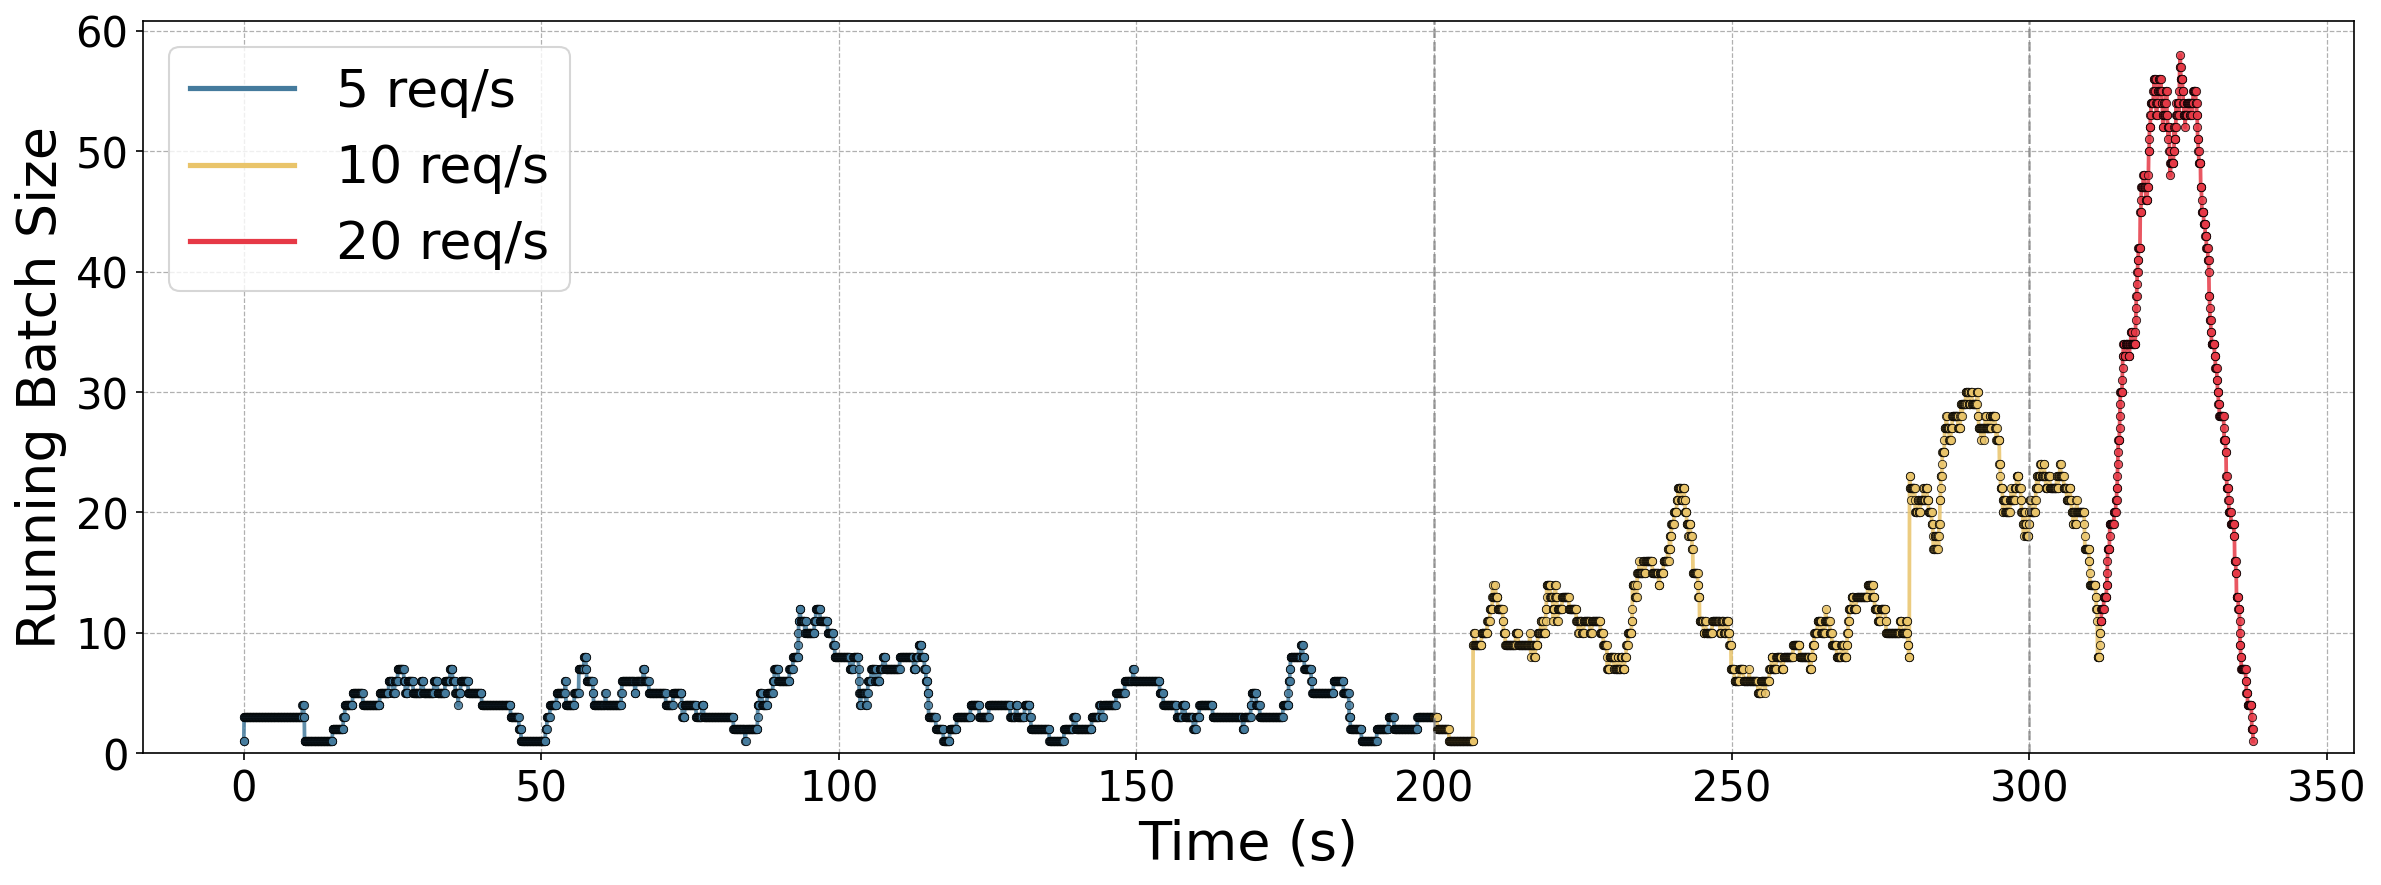
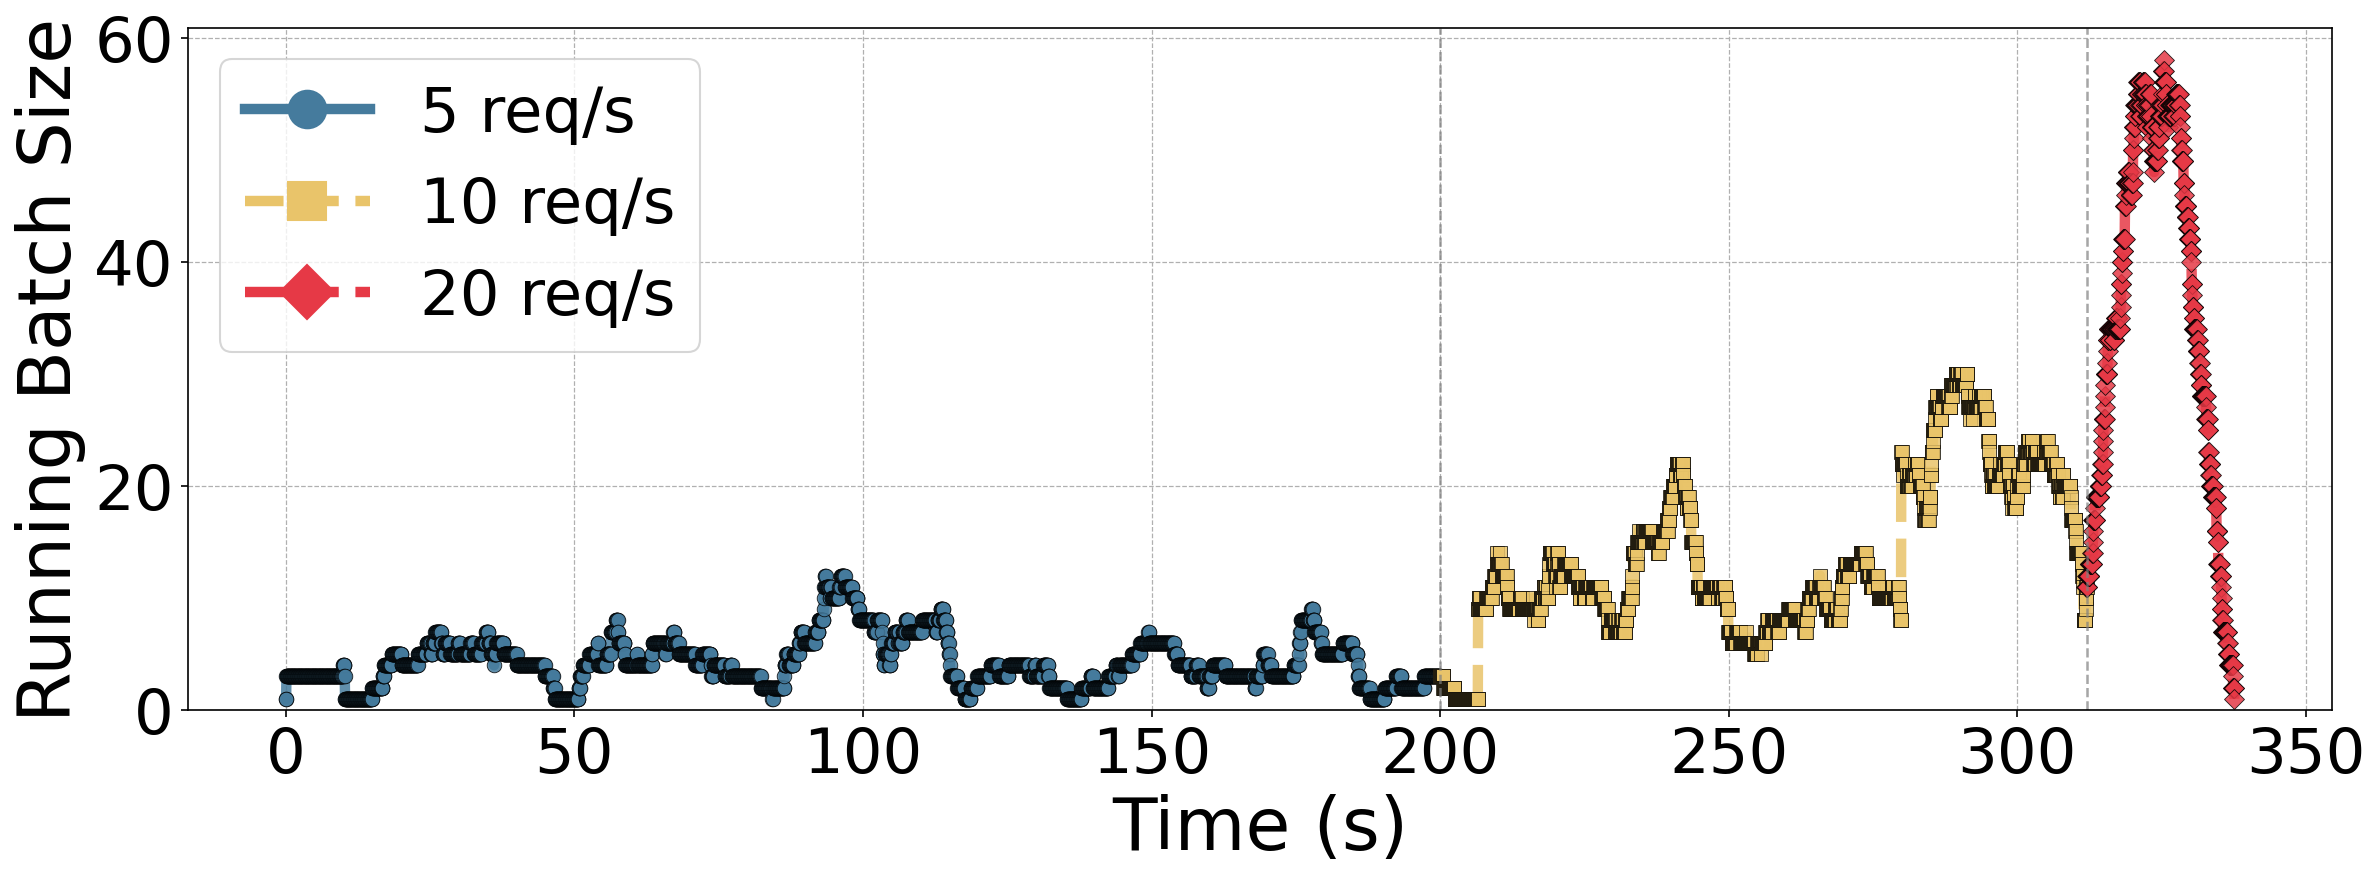
avg-batch-size

diff --git a/code/vllm/rl_batch_size_logs/plot_varying_req_rate.py b/code/vllm/rl_batch_size_logs/plot_varying_req_rate.py
@@ -7,21 +7,8 @@ import matplotlib.lines as mlines
 import numpy as np
 
 LOG_DIR = os.path.expanduser("~/CS496/code/vllm/rl_batch_size_logs")
+LOG_FILE = "rl_batching.log"
 
-LOG_FILES = [
-    "rl_batching.log",
-]
-
-LABELS = [
-    "Bandit",
-]
-
-PALETTE    = ["#E63946", "#457B9D", "#2A9D8F", "#E9C46A"]
-MARKERS    = ["o", "s", "D", "^"]
-LINESTYLES = ["-", "--", "-.", ":"]
-
-# ─────────────────────────────────────────────────────────────
-# 🔥 USER CONFIG: RANGES TO REMOVE (in seconds)
 REMOVE_RANGES = [
     (98, 148),
     (190, 235),
@@ -29,23 +16,19 @@ REMOVE_RANGES = [
     (307, 350),
 ]
 
-# ─────────────────────────────────────────────────────────────
-# 🎨 Rate phases on the FINAL (stitched) time axis
-# Adjust t_start / t_end after checking printed t=[..., ...] output
 RATE_PHASES = [
-    (0,   200, "5 req/s",  "#457B9D"),
-    (200, 312, "10 req/s", "#E9C46A"),
-    (312, 400, "20 req/s", "#E63946"),   # 400 is a sentinel; clips to data end
+    (0,   200, "5 req/s",  "#457B9D", "-",  "o"),
+    (200, 312, "10 req/s", "#E9C46A", "--", "s"),
+    (312, 400, "20 req/s", "#E63946", "-.", "D"),
 ]
-# ─────────────────────────────────────────────────────────────
 
 RE_SCHEDULER = re.compile(
     r"Scheduler stats;.*?running batch size:\s*(\d+),.*?current time:\s*([\d.]+)"
 )
 
+
 def parse_log(path):
-    batch_sizes = []
-    timestamps  = []
+    batch_sizes, timestamps = [], []
     with open(path, "r", errors="replace") as f:
         for line in f:
             m = RE_SCHEDULER.search(line)
@@ -55,154 +38,77 @@ def parse_log(path):
     return np.array(timestamps), np.array(batch_sizes)
 
 
-def remove_time_ranges(ts, bs, remove_ranges, max_time):
-    if not remove_ranges:
-        # Still remap to [0, max_time]
-        final_ts = np.linspace(0, max_time, len(ts))
-        return final_ts, bs
-
+def remove_time_ranges(ts, bs, remove_ranges):
     remove_ranges = sorted(remove_ranges, key=lambda x: x[0])
+    result_ts, result_bs = [], []
+    prev_end = ts[0]
 
-    orig_ts = ts.copy()
-    orig_bs = bs.copy()
-
-    result_ts = []
-    result_bs = []
-
-    prev_end = orig_ts[0]
-    ranges_with_sentinel = remove_ranges + [(orig_ts[-1] + 1, orig_ts[-1] + 1)]
-
-    for (cut_start, cut_end) in ranges_with_sentinel:
-        seg_mask = (orig_ts >= prev_end) & (orig_ts <= cut_start)
-        seg_ts   = orig_ts[seg_mask]
-        seg_bs   = orig_bs[seg_mask]
-
-        if len(seg_ts) > 0:
-            result_ts.append(seg_ts)
-            result_bs.append(seg_bs)
-
+    for (cut_start, cut_end) in remove_ranges + [(ts[-1] + 1, ts[-1] + 1)]:
+        mask = (ts >= prev_end) & (ts <= cut_start)
+        if mask.any():
+            result_ts.append(ts[mask])
+            result_bs.append(bs[mask])
         prev_end = cut_end
 
     final_ts = np.concatenate(result_ts)
     final_bs = np.concatenate(result_bs)
-
-    # Remap to contiguous [0, max_time] — eliminates gap-connecting lines
-    final_ts = np.linspace(0, max_time, len(final_ts))
-
+    final_ts = np.linspace(0, ts[-1] - ts[0], len(final_ts))
     return final_ts, final_bs
 
 
-# ── Parse all logs ────────────────────────────────────────────
-all_series = []
+# ── Parse ─────────────────────────────────────────────────────
+path = os.path.join(LOG_DIR, LOG_FILE)
+ts, bs = parse_log(path)
+ts -= ts[0]
+ts, bs = remove_time_ranges(ts, bs, REMOVE_RANGES)
+max_time = ts[-1]
 
-for fname, label, color, marker, ls in zip(
-    LOG_FILES, LABELS, PALETTE, MARKERS, LINESTYLES
-):
-    path = os.path.join(LOG_DIR, fname)
-    if not os.path.exists(path):
-        print(f"  MISSING: {fname}")
-        continue
-
-    ts, bs = parse_log(path)
-
-    if len(ts) == 0:
-        print(f"  NO DATA: {fname}")
-        continue
-
-    duration = ts[-1] - ts[0]
-    ts = ts - ts[0]  # normalize to 0
-
-    all_series.append((label, color, marker, ls, ts, bs, duration))
-
-
-# ── Min duration across all series ────────────────────────────
-max_time = min(duration for *_, duration in all_series)
-
-print("\nSeries durations (s):")
-for (label, *_, duration) in all_series:
-    print(f"  {label:25s}  {duration:.2f}")
-
-print(f"\nTruncating all series to duration <= {max_time:.2f}s\n")
-
+print(f"points={len(ts)}  t=[{ts[0]:.1f}, {ts[-1]:.1f}]  batch=[{bs.min()}, {bs.max()}]")
 
 # ── Plot ──────────────────────────────────────────────────────
 fig, ax = plt.subplots(figsize=(16, 6))
 
-legend_handles = []
+for (t_start, t_end, rate_label, color, ls, marker) in RATE_PHASES:
+    seg_mask = (ts >= t_start) & (ts <= t_end)
+    seg_ts = ts[seg_mask]
+    seg_bs = bs[seg_mask]
 
-for label, color, marker, ls, ts, bs, duration in all_series:
+    if len(seg_ts) < 2:
+        continue
 
-    # Truncate to max_time
-    mask = ts <= max_time
-    ts = ts[mask]
-    bs = bs[mask]
+    idx = np.where(seg_mask)[0]
+    if idx[0] > 0:
+        seg_ts = np.concatenate([[ts[idx[0] - 1]], seg_ts])
+        seg_bs = np.concatenate([[bs[idx[0] - 1]], seg_bs])
+    if idx[-1] < len(ts) - 1:
+        seg_ts = np.concatenate([seg_ts, [ts[idx[-1] + 1]]])
+        seg_bs = np.concatenate([seg_bs, [bs[idx[-1] + 1]]])
 
-    # Remove + stitch
-    ts, bs = remove_time_ranges(ts, bs, REMOVE_RANGES, max_time)
+    ax.plot(seg_ts, seg_bs, color=color, linestyle=ls, linewidth=5,
+            marker=marker, markersize=7, markeredgecolor="black",
+            markeredgewidth=0.4, alpha=0.85)
 
-    print(f"  {label:25s}  points={len(ts)}  "
-          f"t=[{ts[0]:.1f}, {ts[-1]:.1f}]  "
-          f"batch=[{bs.min()}, {bs.max()}]")
+for t_boundary in [200, 312]:
+    ax.axvline(x=t_boundary, color="gray", linestyle="--", linewidth=1.2, alpha=0.7)
 
-    # Draw each phase segment in its own colour
-    for (t_start, t_end, rate_label, phase_color) in RATE_PHASES:
-        seg_mask = (ts >= t_start) & (ts <= t_end)
-        seg_ts = ts[seg_mask]
-        seg_bs = bs[seg_mask]
+legend_handles = [
+    mlines.Line2D([], [], color=color, linestyle=ls, marker=marker,
+                  markersize=18, linewidth=5, label=rate_label)
+    for (_, _, rate_label, color, ls, marker) in RATE_PHASES
+]
 
-        if len(seg_ts) < 2:
-            continue
-
-        # Extend by one point on each side to avoid gaps at phase boundaries
-        idx = np.where(seg_mask)[0]
-        if idx[0] > 0:
-            seg_ts = np.concatenate([[ts[idx[0] - 1]], seg_ts])
-            seg_bs = np.concatenate([[bs[idx[0] - 1]], seg_bs])
-        if idx[-1] < len(ts) - 1:
-            seg_ts = np.concatenate([seg_ts, [ts[idx[-1] + 1]]])
-            seg_bs = np.concatenate([seg_bs, [bs[idx[-1] + 1]]])
-
-        ax.plot(
-            seg_ts, seg_bs,
-            color=phase_color,
-            linestyle=ls,
-            linewidth=1.8,
-            marker=marker,
-            markersize=4,
-            markeredgecolor="black",
-            markeredgewidth=0.4,
-            alpha=0.85,
-        )
-
-# Build legend handles (one per rate phase)
-for (_, _, rate_label, phase_color) in RATE_PHASES:
-    legend_handles.append(
-        mlines.Line2D([], [],
-                      color=phase_color,
-                      linewidth=2.5,
-                      label=f"{rate_label}")
-    )
-
-# Vertical dashed lines at phase boundaries
-for t_boundary in [200, 300]:
-    ax.axvline(x=t_boundary, color="gray", linestyle="--",
-               linewidth=1.2, alpha=0.7)
-
-ax.set_xlabel("Time (s)", fontsize=26)
-ax.set_ylabel("Running Batch Size", fontsize=26)
-ax.tick_params(axis="both", labelsize=20)
+ax.set_xlabel("Time (s)", fontsize=35)
+ax.set_ylabel("Running Batch Size", fontsize=35)
+ax.tick_params(axis="both", labelsize=30)
 ax.grid(True, linewidth=0.6, linestyle="--")
 ax.set_ylim(bottom=0)
-ax.legend(handles=legend_handles, fontsize=25, loc="upper left")
+ax.legend(handles=legend_handles, fontsize=30, loc="upper left")
 
 plt.tight_layout()
 
-OUT = os.path.expanduser(
-    "~/CS496/results/rl_batch_size_plots/batch_size_over_time.png"
-)
+OUT = os.path.expanduser("~/CS496/results/rl_batch_size_plots/batch_size_over_time.png")
 os.makedirs(os.path.dirname(OUT), exist_ok=True)
-
 fig.savefig(OUT, dpi=150, bbox_inches="tight")
 plt.close(fig)
 
-print(f"\nSaved: {OUT}")
+print(f"Saved: {OUT}")

diff --git a/code/vllm/rl_batch_size_logs/plot.py b/code/vllm/rl_batch_size_logs/plot.py
@@ -90,17 +90,17 @@ for label, color, marker, ls, ts, bs, duration in all_series:
         label=label,
         color=color,
         linestyle=ls,
-        linewidth=1.8,
+        linewidth=5,
         marker=marker,
-        markersize=4,
+        markersize=5,
         markeredgecolor="black",
         markeredgewidth=0.4,
         alpha=0.85,
     )
 
-ax.set_xlabel("Time (s)", fontsize=26)
-ax.set_ylabel("Running Batch Size", fontsize=26)
-ax.tick_params(axis="both", labelsize=20)
+ax.set_xlabel("Time (s)", fontsize=35)
+ax.set_ylabel("Running Batch Size", fontsize=35)
+ax.tick_params(axis="both", labelsize=30)
 # ax.legend(fontsize=25, framealpha=0.35)
 ax.grid(True, linewidth=0.6, linestyle="--")
 ax.set_ylim(bottom=0)
